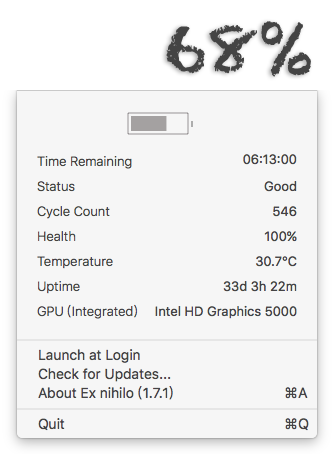
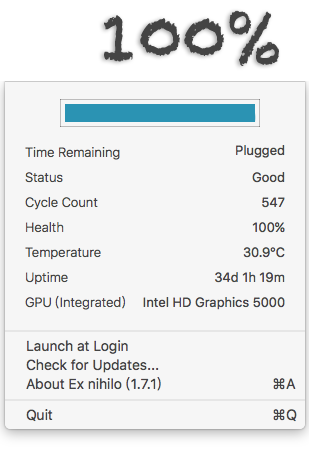
bump version to 1.7.2

Changed region(s): [[0.0, 0.185, 1.0, 0.9868], [0.3204, 0.0, 0.932, 0.185], [0.1748, 0.2159, 0.8447, 0.3084]]

diff --git a/README.md b/README.md
@@ -15,6 +15,10 @@ brew cask install exnihilo
 ## Changelog
 
 <dl>
+  <dt>v1.7.8</dt>
+  <dd>refactor the indicator of battery power</dd>
+</dl>
+<dl>
   <dt>v1.7.1</dt>
   <dd>Display the type of GPU (integrated or discrete)</dd>
 </dl>
